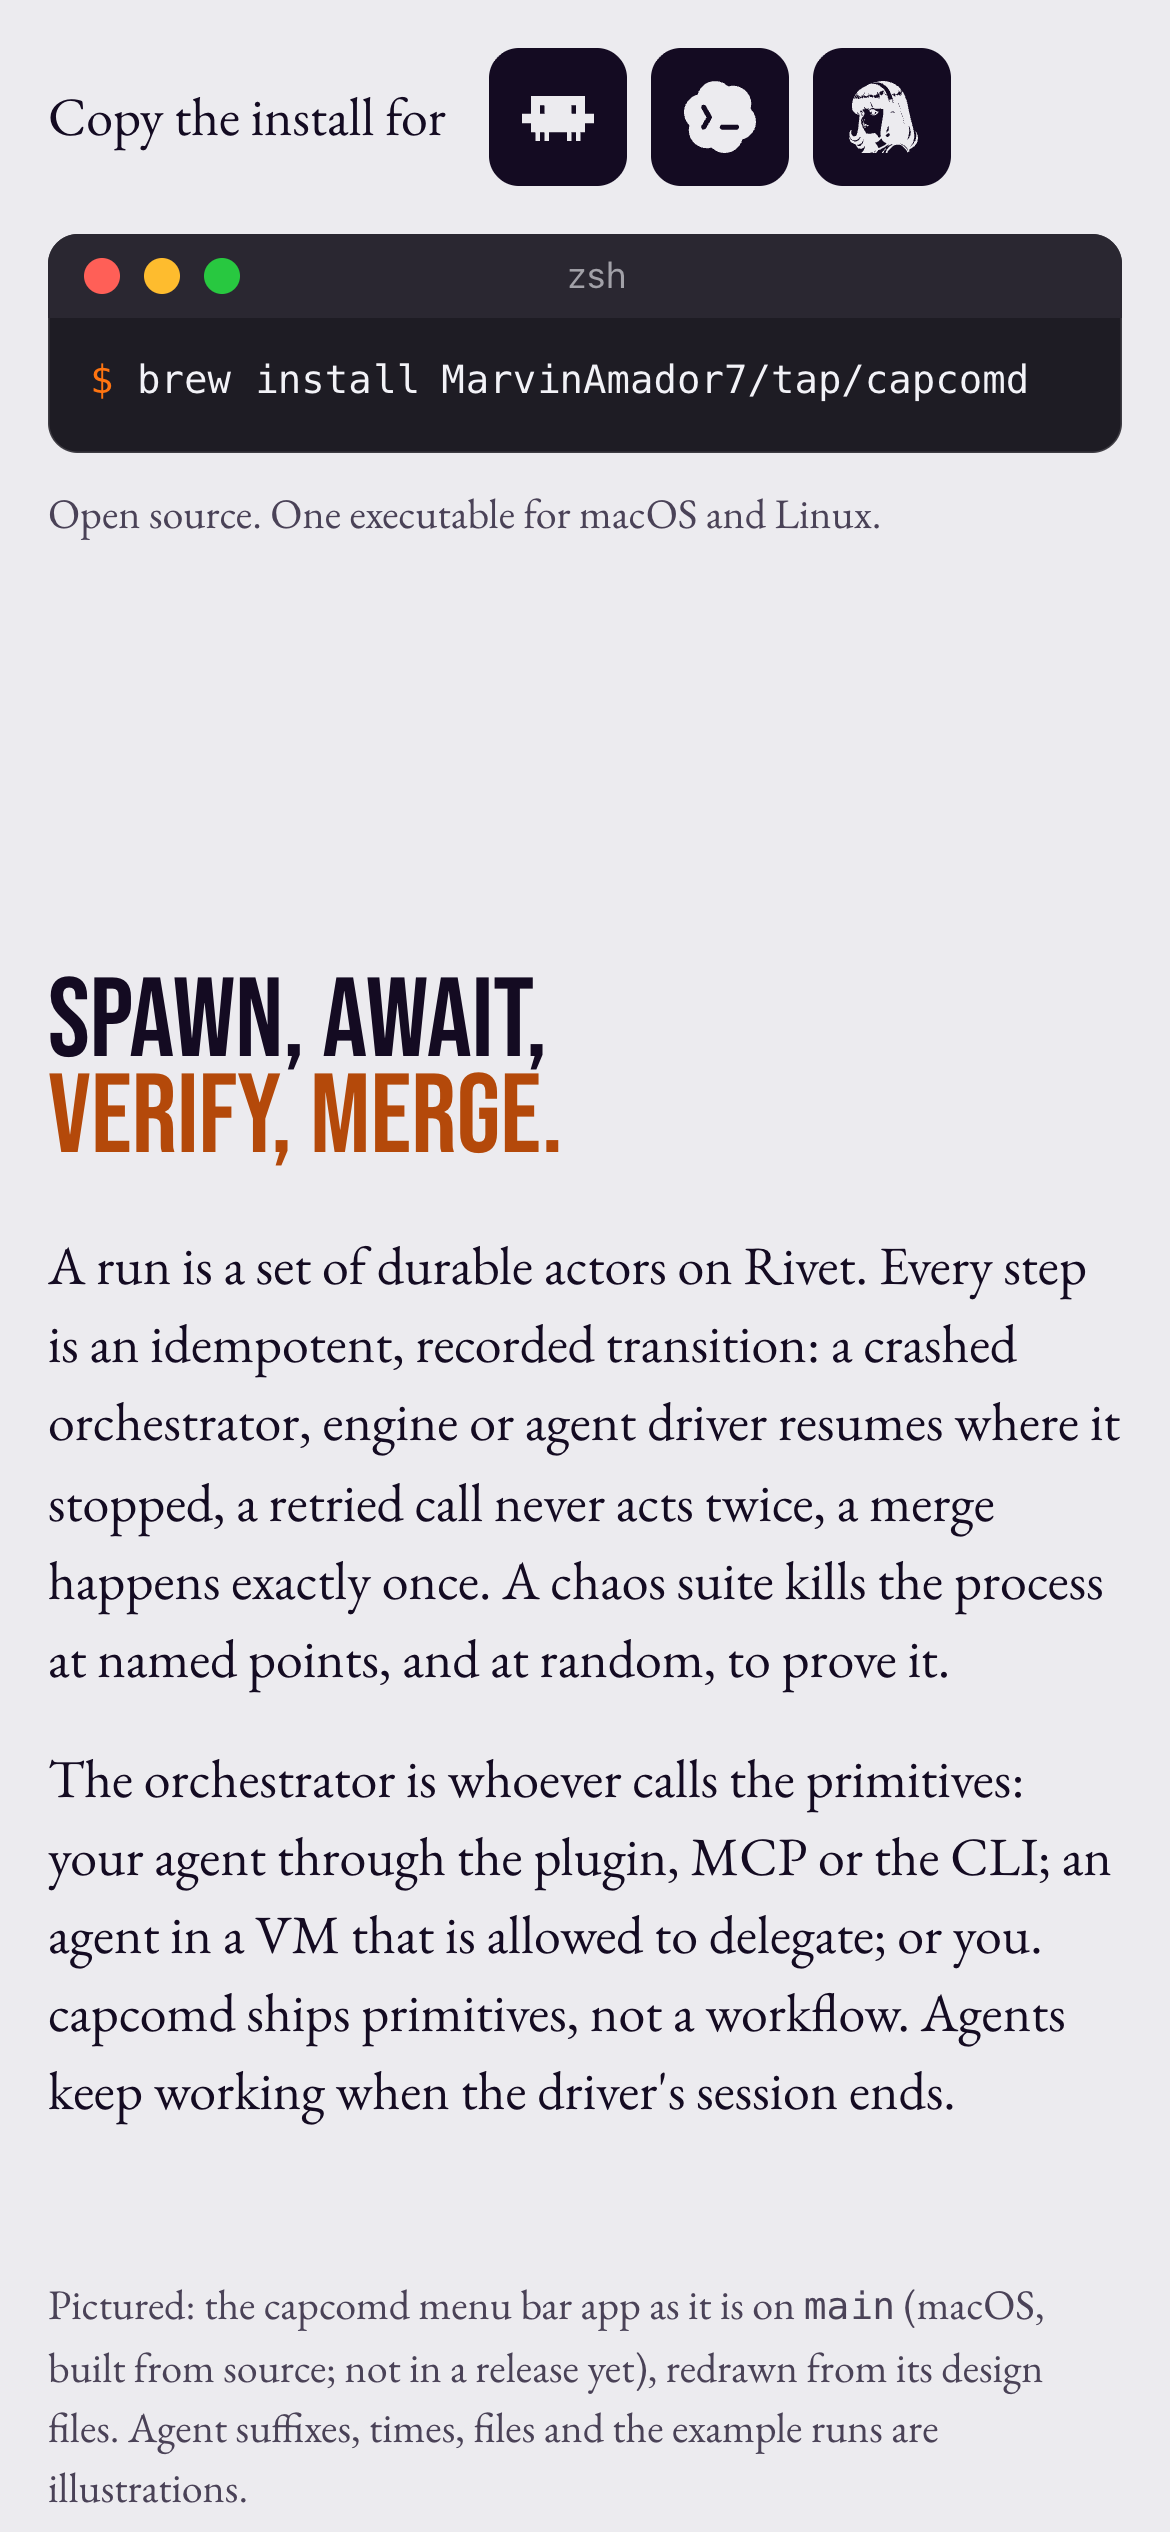
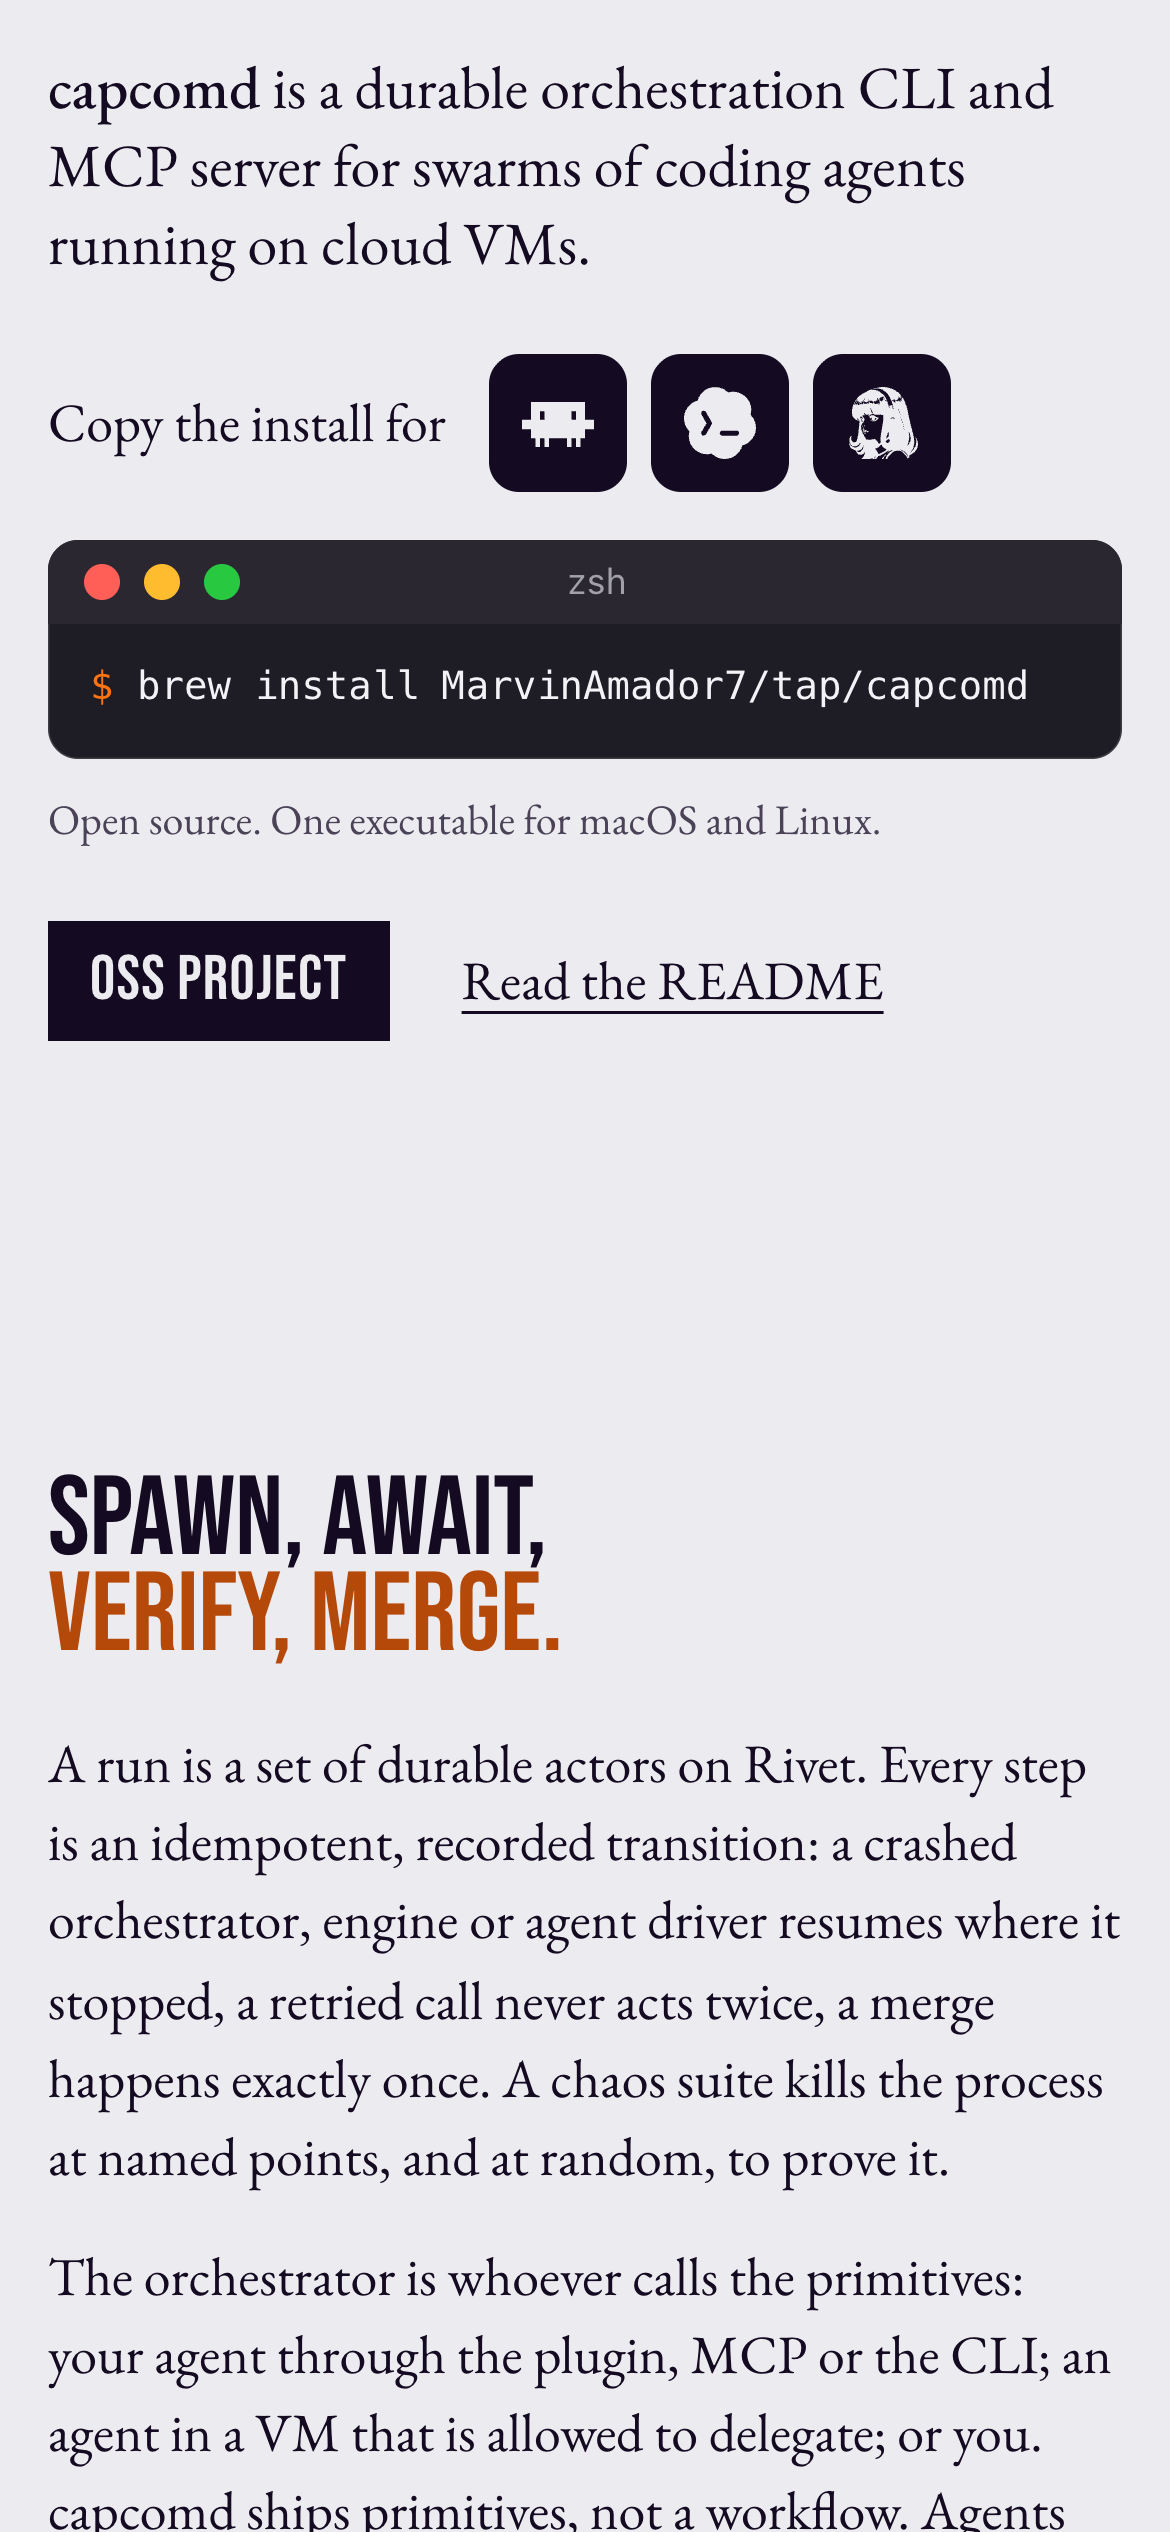
site: one install block on the hero's left; the main button is "OSS Project"
The agent install buttons, the brew command and the fine print move under
the lead in the left column (#install points at them). The main button reads
"OSS Project" and opens the repository.

Changed region(s): [[0.0308, 0.4992, 0.9538, 1.0], [0.0308, 0.0, 0.9846, 0.468], [0.8308, 0.624, 0.8615, 0.6552]]

diff --git a/site/app/globals.css b/site/app/globals.css
@@ -95,9 +95,9 @@
 .hero__foot { display: grid; grid-template-columns: repeat(12, 1fr); gap: 24px; padding: 0 var(--spacing-gutter) 40px; align-items: end; }
 .hero__lead { grid-column: 1 / span 6; margin: 0; font-size: var(--text-lead); line-height: 1.3; max-width: 36ch; }
 .hero__lead b { font-weight: 500; }
-.hero__do { grid-column: 1 / span 6; display: flex; gap: 24px; align-items: center; margin-top: 4px; }
+.hero__do { grid-column: 1 / span 6; display: flex; gap: 24px; align-items: center; margin-top: 28px; }
 .hero__do a.text { font-size: var(--text-body); text-underline-offset: 0.2em; }
-.hero__note { grid-column: 8 / span 5; grid-row: 1 / span 2; align-self: end; margin: 0; min-width: 0; font-size: var(--text-body); line-height: 1.45; }
+.hero__note { grid-column: 1 / span 6; max-width: 600px; margin: 28px 0 0; min-width: 0; font-size: var(--text-body); line-height: 1.45; }
 
 /* The install line in a small Mac window: the first native touch on the page. */
 .win { display: block; margin-top: 16px; border-radius: 10px; overflow: clip; background: var(--color-window); color: var(--color-app-text); font: 400 13px/1.35 var(--font-ui); box-shadow: inset 0 0 0 0.5px rgba(255,255,255,0.14); } /* taste-skill-ignore: interface fragment, window chrome */
@@ -428,8 +428,8 @@
   .sentence { white-space: normal; font-size: 19vw; line-height: 0.86; padding-top: 9vh; padding-bottom: 32px; }
   .hero__foot { display: block; padding-bottom: 32px; }
   .hero__lead { font-size: 1.25rem; }
-  .hero__do { margin-top: 20px; }
-  .hero__note { margin-top: 28px; }
+  .hero__do { margin-top: 24px; }
+  .hero__note { margin-top: 24px; }
   .run { padding: 112px var(--spacing-gutter) 88px; }
   .run__intro { display: block; }
   .run__intro h2 { font-size: 9.6vw; }

diff --git a/site/components/Hero.tsx b/site/components/Hero.tsx
@@ -20,14 +20,14 @@ export function Hero() {
         <p className="hero__lead" data-load style={delay(420)}>
           <b>capcomd</b> is a durable orchestration CLI and MCP server for swarms of coding agents running on cloud VMs.
         </p>
-        <div className="hero__do" data-load style={delay(500)} id="install">
-          <a className="button" href={`${SITE.repo}#quickstart`}>Install capcomd</a>
-          <a className="text" href={SITE.repo}>Read the README</a>
-        </div>
-        <div className="hero__note" data-load style={delay(620)}>
+        <div className="hero__note" data-load style={delay(500)} id="install">
           <AgentInstall />
           <Win title="zsh" label="Install with Homebrew"><code tabIndex={0}>brew install MarvinAmador7/tap/capcomd</code></Win>
           <p className="hero__fine">Open source. One executable for macOS and Linux.</p>
+        </div>
+        <div className="hero__do" data-load style={delay(620)}>
+          <a className="button" href={SITE.repo}>OSS Project</a>
+          <a className="text" href={`${SITE.repo}#readme`}>Read the README</a>
         </div>
       </div>
     </header>
